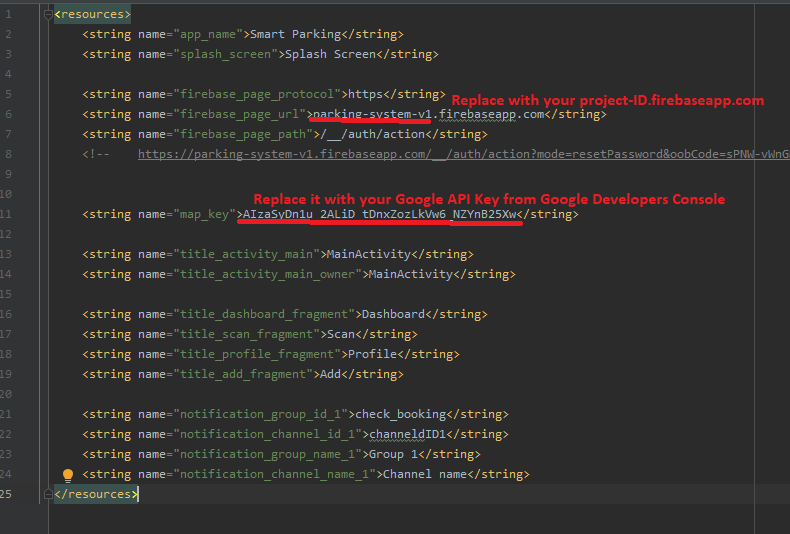
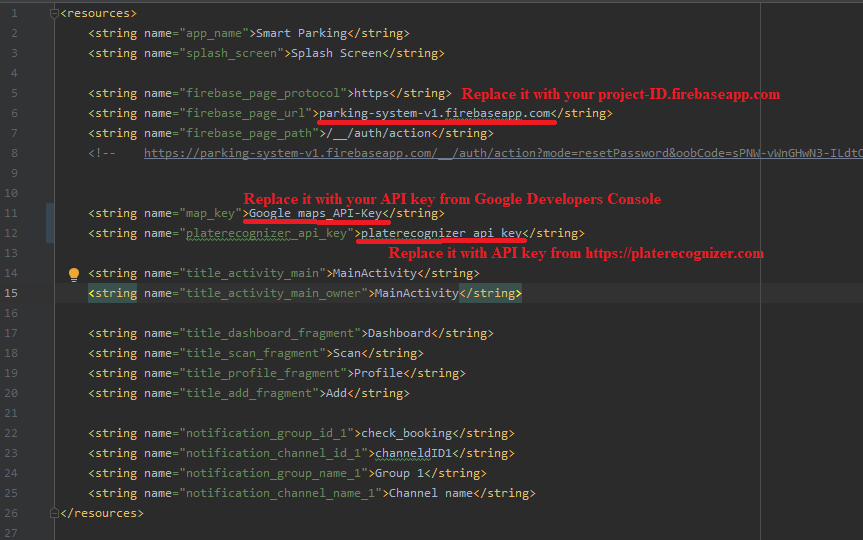
Updated Readme.md

diff --git a/app/src/main/java/com/dominicsilveira/parkingsystem/ui/scan/ScanFragment.java b/app/src/main/java/com/dominicsilveira/parkingsystem/ui/scan/ScanFragment.java
@@ -306,7 +306,7 @@ public class ScanFragment extends Fragment implements NumberPlatePopUp.NumberPla
                 MultipartBody.Part body = MultipartBody.Part.createFormData("upload",
                         file.getName(), reqFile);
                 RequestBody name = RequestBody.create(MediaType.parse("text/plain"), "upload");
-                Call<ResponseBody> req = apiService.postImage(body, name,"Token 0bd1219a5d0dfc9c5a4a633af1e3e9dd74fb882b");
+                Call<ResponseBody> req = apiService.postImage(body, name,"Token ".concat(getActivity().getApplicationContext().getString(R.string.platerecognizer_api_key)));
                 req.enqueue(new Callback<ResponseBody>() {
                     @Override
                     public void onResponse(Call<ResponseBody> call, Response<ResponseBody> response) {
